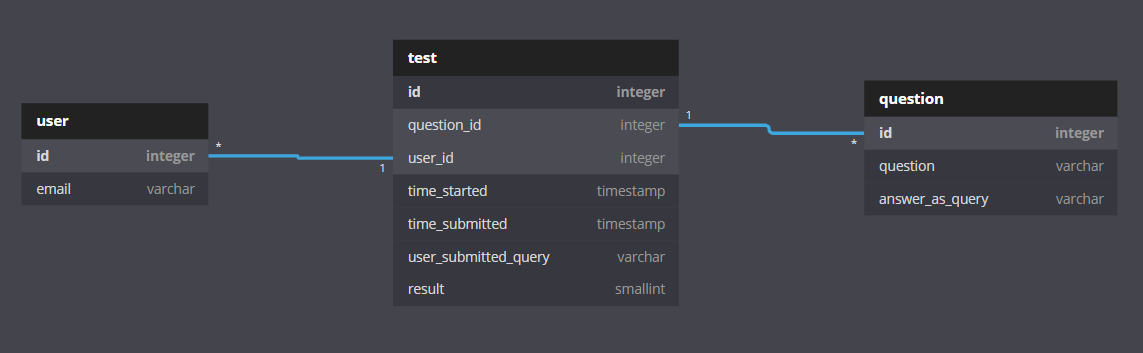
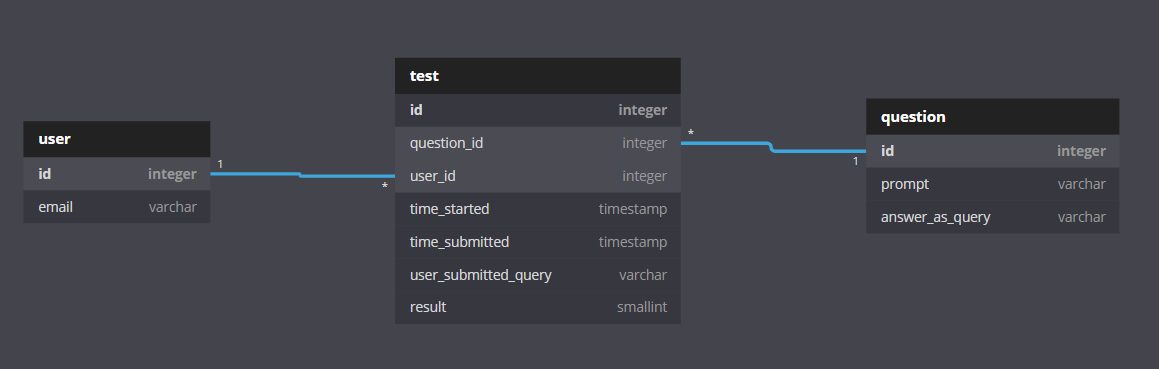
made changes to readme and image to improve clarity

diff --git a/readme.md b/readme.md
@@ -6,11 +6,12 @@
 - Have a main database which will contain all user data.
 - Have a question database that will handle testing specifically.
 
-1. When user enters email main database is updated with a new `user` record and new `test` record tied to the users account info.
-2. Test becomes accessible as long as `test` record exists and has not been submitted.
-3. User enters a query. `answer_as_query` runs on question database alongside user entered query. The two results are compared. If the results from the user entered query matches the `answer_as_query` results: server will return that user has the right answer. query outcome is returned regardless.
-4. User submits query. The query the user submitted is saved along with the time the user submitted the query and the result (either 0 or 1).
-5. User is redirected to homepage.
+1. When a user enters an email, main database is updated with a new `user` record and a new `test` record.
+2. The test becomes accessible through the client as long as `test` record exists and has not been submitted.
+3. User enters a query and presses execute causing `answer_as_query` to run on the question database alongside the user entered query. 
+4. The two results are compared. If the results from the user entered query matches the `answer_as_query` results: the server will return that user has the right answer. query outcome is returned regardless.
+5. User submits query. The query the user submitted is saved along with the time the user submitted the query and the result (either 0 or 1).
+6. User is redirected to homepage with a thank you message.
 
 
 
